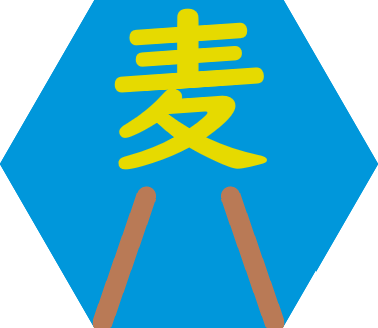
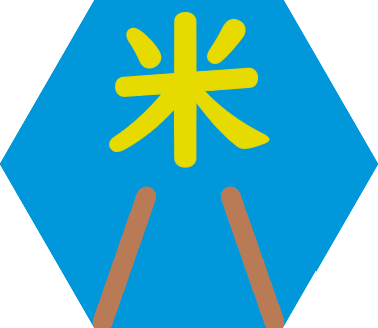
'commit'

diff --git a/static/Catan-Extension.html b/static/Catan-Extension.html
@@ -49,6 +49,28 @@
                 </div>
             </div>
         </div>
+        <div id="tileamounts">
+            <div>
+                <div>鉄</div>
+                <input id="oretile" type="number" value="" min="0" max="100" step="4">
+            </div>
+            <div>
+                <div>米</div>
+                <input id="exportgrain" type="number" value="" min="0" max="100" step="4">
+            </div>
+            <div>
+                <div>羊</div>
+                <input id="exportwool" type="number" value="" min="0" max="100" step="4">
+            </div>
+            <div>
+                <div>木</div>
+                <input id="exportlumber" type="number" value="" min="0" max="100" step="4">
+            </div>
+            <div>
+                <div>煉</div>
+                <input id="exportbrick" type="number" value="" min="0" max="100" step="4">
+            </div>
+        </div>
         <div id="gamestart"><button id="gamestartbutton">開始</button></div>
         <div id="board_and_button">
             <div id="board_area">
@@ -373,21 +395,21 @@
         </div>
         <div id="monopoly_area">
             <button id="monopoly_ore" class="action_button resource_button">鉄</button>
-            <button id="monopoly_grain" class="action_button resource_button">麦</button>
+            <button id="monopoly_grain" class="action_button resource_button">米</button>
             <button id="monopoly_wool" class="action_button resource_button">羊</button>
             <button id="monopoly_lumber" class="action_button resource_button">木</button>
             <button id="monopoly_brick" class="action_button resource_button">煉</button>
         </div>
         <div id="harvest_area">
             <button id="harvest_ore" class="action_button resource_button">鉄</button>
-            <button id="harvest_grain" class="action_button resource_button">麦</button>
+            <button id="harvest_grain" class="action_button resource_button">米</button>
             <button id="harvest_wool" class="action_button resource_button">羊</button>
             <button id="harvest_lumber" class="action_button resource_button">木</button>
             <button id="harvest_brick" class="action_button resource_button">煉</button>
         </div>
         <div id="burst_area">
             <button id="burst_ore" class="action_button resource_button">鉄</button>
-            <button id="burst_grain" class="action_button resource_button">麦</button>
+            <button id="burst_grain" class="action_button resource_button">米</button>
             <button id="burst_wool" class="action_button resource_button">羊</button>
             <button id="burst_lumber" class="action_button resource_button">木</button>
             <button id="burst_brick" class="action_button resource_button">煉</button>
@@ -402,7 +424,7 @@
                     <input id="giveore" type="number" value="" min="0" max="100" step="1">
                 </div>
                 <div>
-                    <div>麦</div>
+                    <div>米</div>
                     <input id="givegrain" type="number" value="" min="0" max="100" step="1">
                 </div>
                 <div>
@@ -427,7 +449,7 @@
                     <input id="takeore" type="number" value="" min="0" max="100" step="1">
                 </div>
                 <div>
-                    <div>麦</div>
+                    <div>米</div>
                     <input id="takegrain" type="number" value="" min="0" max="100" step="1">
                 </div>
                 <div>
@@ -470,7 +492,7 @@
                     <input id="exportore" type="number" value="" min="0" max="100" step="4">
                 </div>
                 <div>
-                    <div>麦</div>
+                    <div>米</div>
                     <input id="exportgrain" type="number" value="" min="0" max="100" step="4">
                 </div>
                 <div>
@@ -495,7 +517,7 @@
                     <input id="importore" type="number" value="" min="0" max="100" step="1">
                 </div>
                 <div>
-                    <div>麦</div>
+                    <div>米</div>
                     <input id="importgrain" type="number" value="" min="0" max="100" step="1">
                 </div>
                 <div>

diff --git a/static/Catan-Extension.js b/static/Catan-Extension.js
@@ -807,7 +807,7 @@ function translate(item){
     if(item === 'ore'){
         return '鉄'
     }else if(item === 'grain'){
-        return '麦'
+        return '米'
     }else if(item === 'wool'){
         return '羊'
     }else if(item === 'lumber'){
